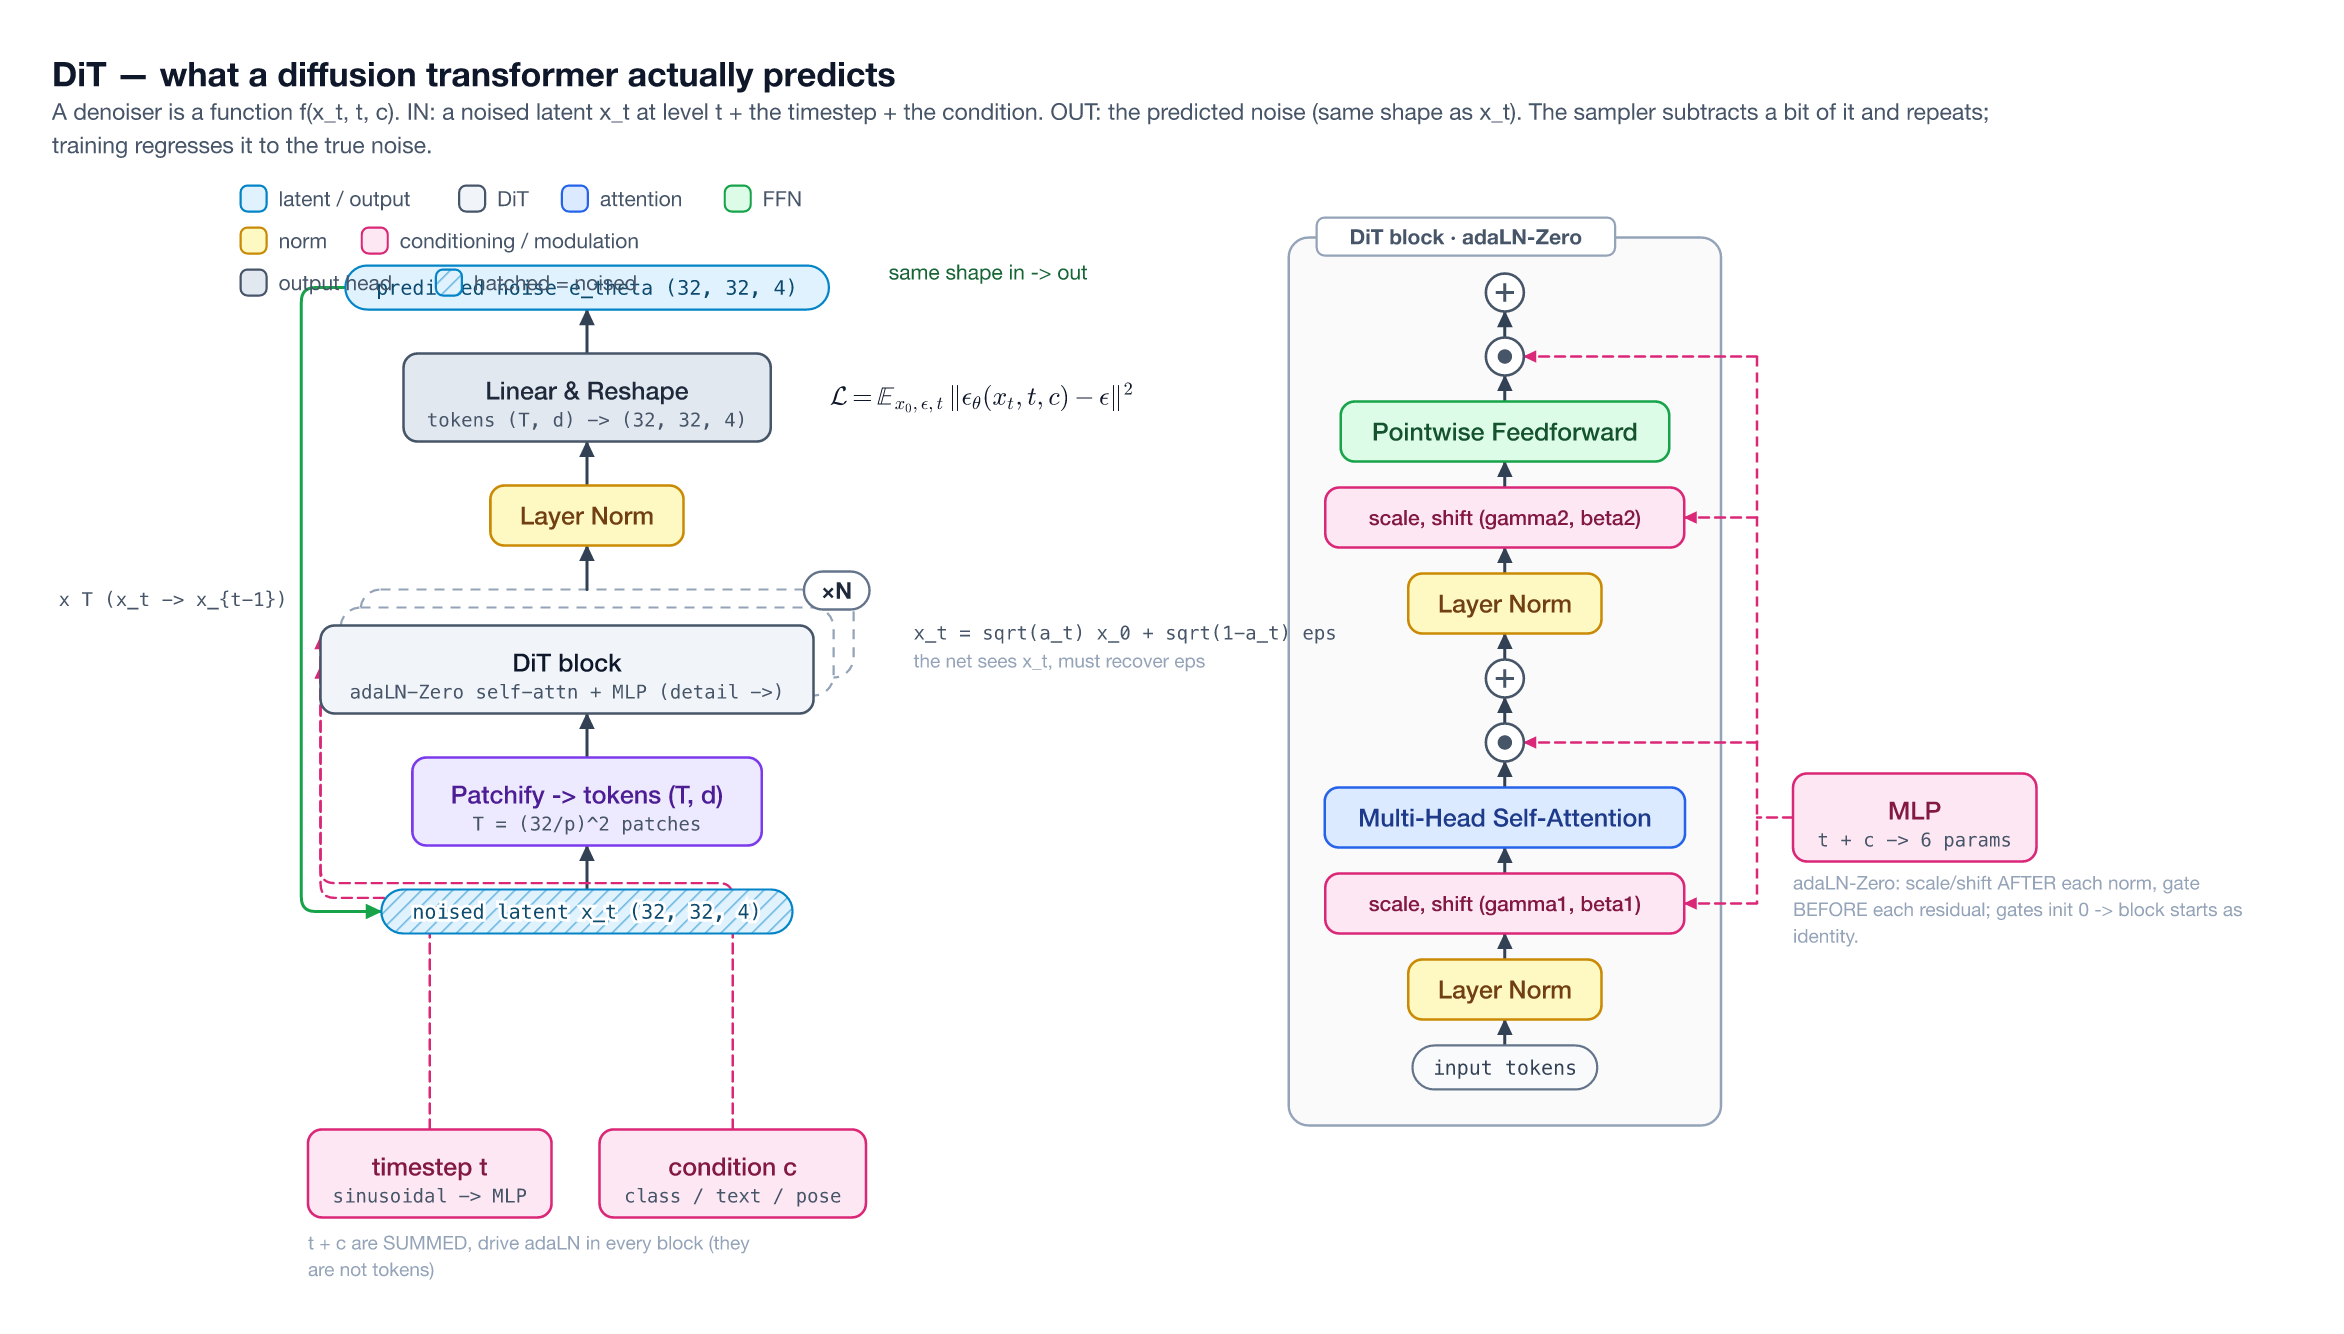
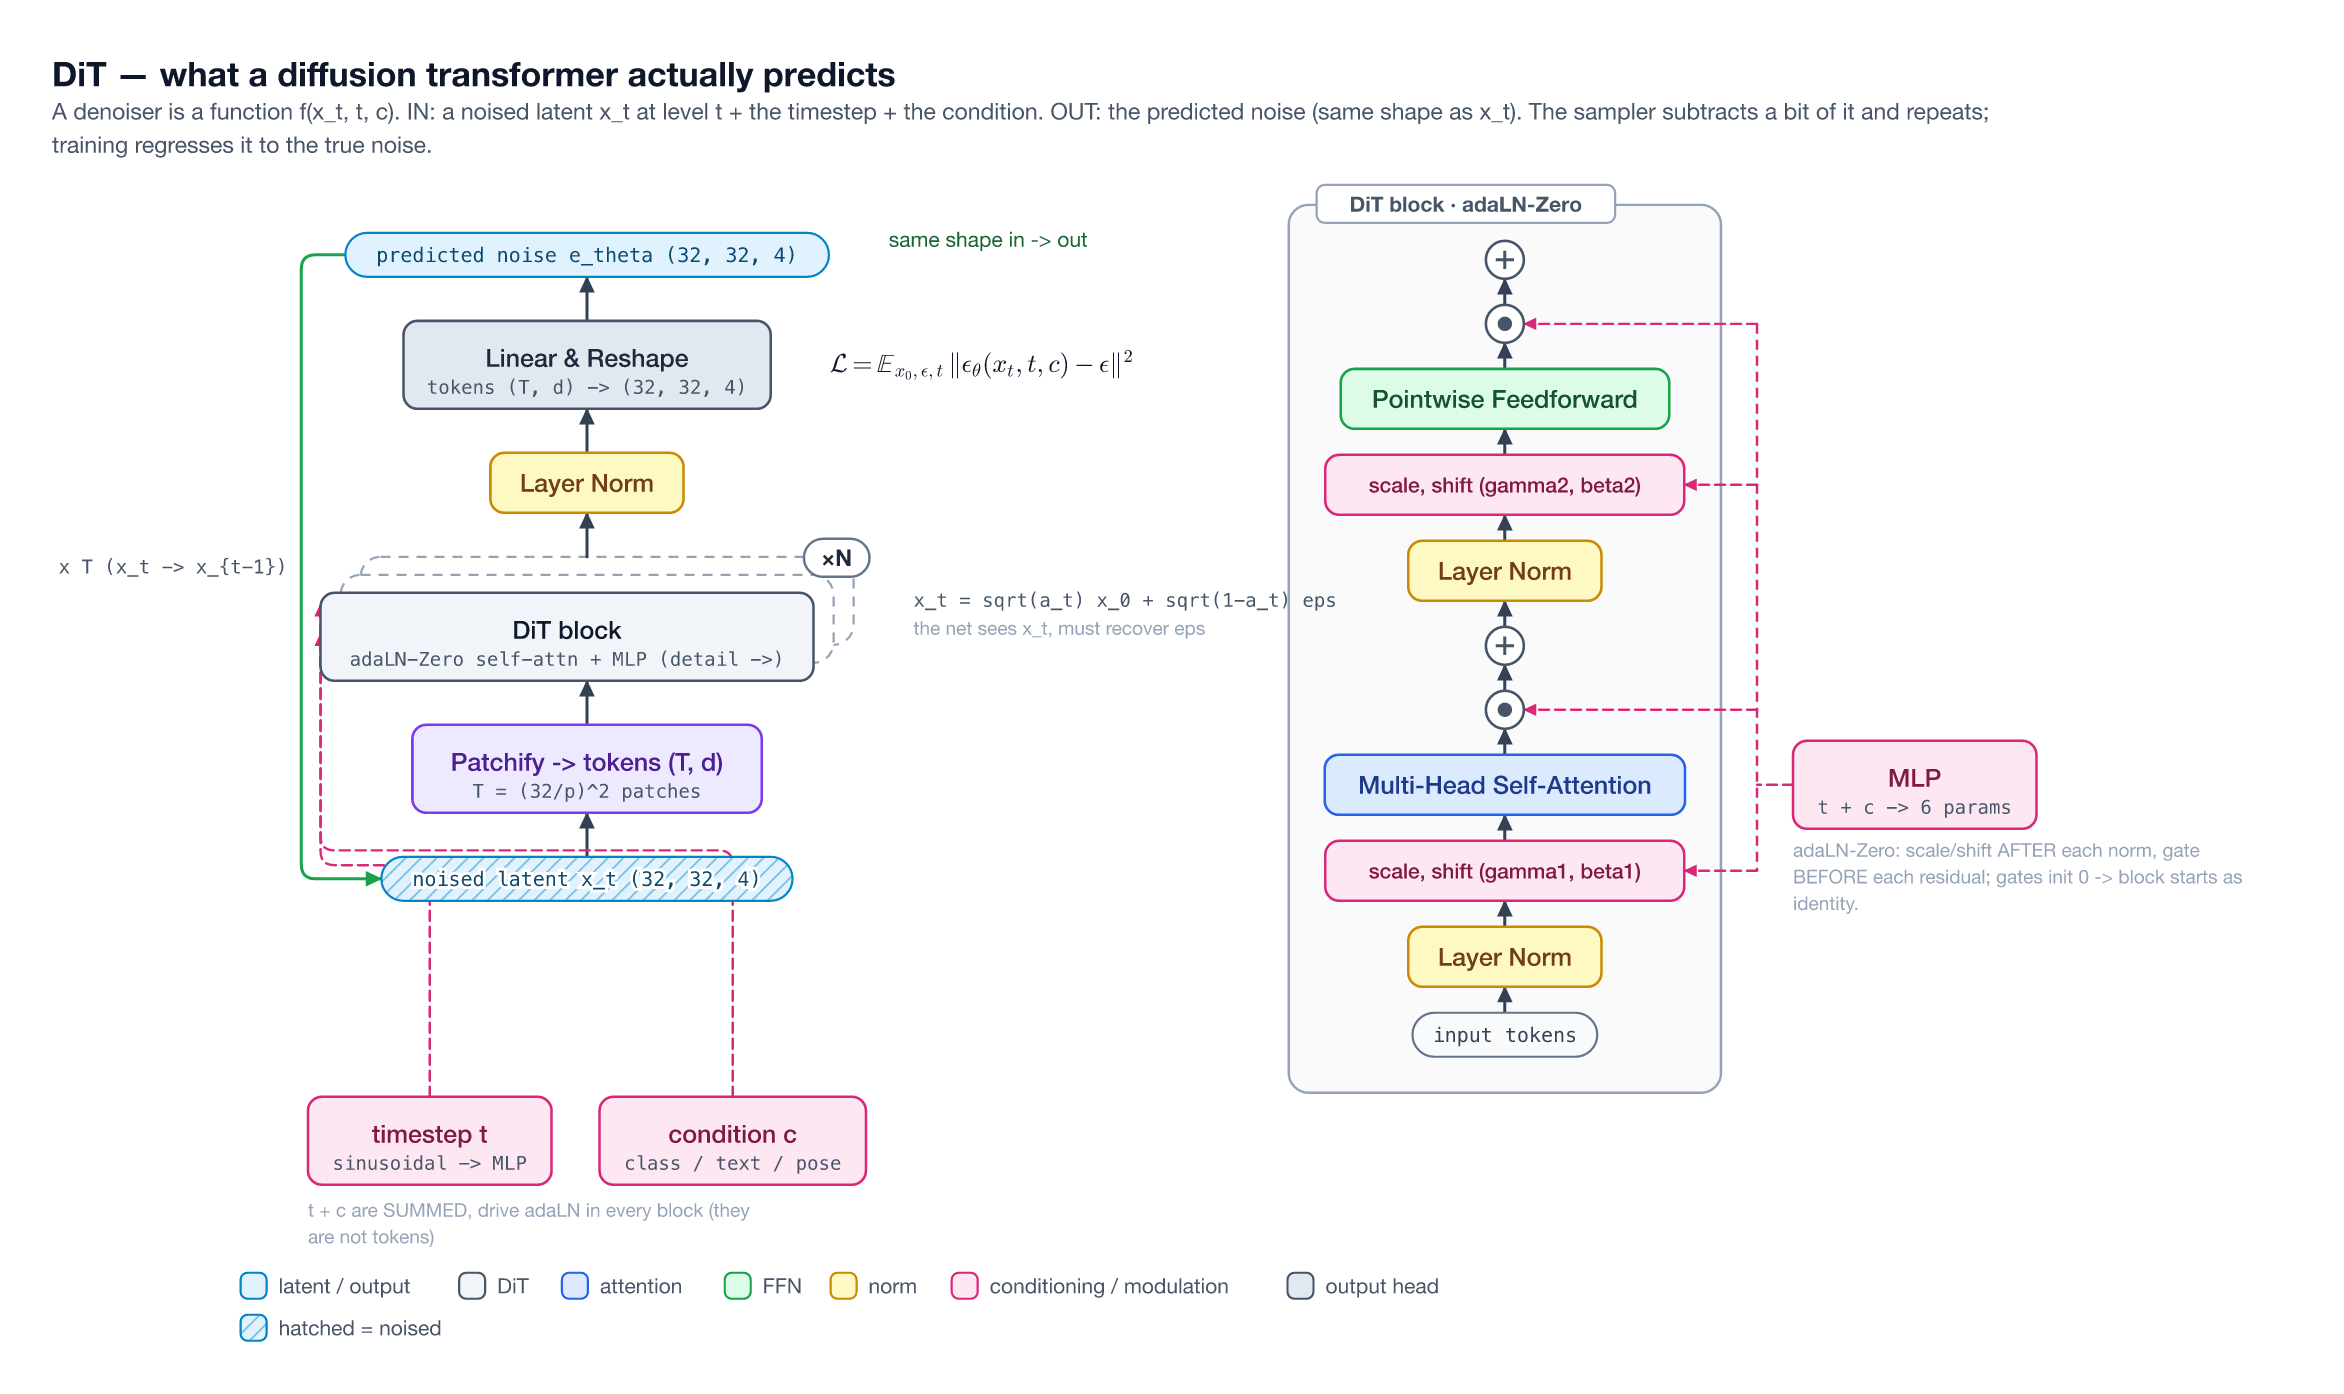
legibility pass (reviewer playbook): fix dit legend collision; rebuild fig10
A harsh conference-reviewer audit found the LingBot figures hide the 'whole',
delegate the centerpiece ('-> fig3'), float conditioning, and collide labels.
First fixes:
- dit_latent_diffusion: move the legend out of the canvas (it smeared over the
  output pill) — the one disqualifying render bug.
- fig10 rebuilt to the playbook: input->output spine with bookend pills; the AR
  sequence drawn with CONCRETE tokens (video frames as thumbnails, actions as
  value chips, per the paper's Fig 2); the diffusion zoom nested under z2 (no
  whitespace canyon); the DiT block inlined as a 3-row stub (not a pointer);
  conditioning gathered into one bus with named ports (-> AdaLN / -> K/V); the
  x30-layers and xT-denoise loops drawn distinctly. ~1.9:1 canvas.

diff --git a/examples/lingbot_va/fig10_ar_diffusion.py b/examples/lingbot_va/fig10_ar_diffusion.py
@@ -1,114 +1,137 @@
-"""Fig 10 — how LingBot-VA's architecture is AR x diffusion. fig9 only compared which
-weights are shared; this figure shows the generative mechanism the model actually is:
-an AUTOREGRESSIVE interleaved video-action sequence (causal, KV-cache, chunk by chunk),
-where each chunk is produced by FLOW-MATCHING DIFFUSION through the DiT (the timestep
-drives per-token AdaLN). The blocks in fig9 are DiT blocks; here is what they do."""
-from archscope import (Block, Diagram, IOLabel, RepeatStack, Swatches,
-                       TextLabel, TokenRow, VStack, style)
+"""Fig 10 — LingBot-VA is AR x diffusion. Rebuilt for legibility (reviewer playbook):
+one input pill -> one output pill spine, the AR sequence drawn with CONCRETE tokens
+(video frames as image thumbnails, actions as value chips, like the paper's Fig 2),
+the diffusion zoom nested directly under the generating chunk (no whitespace gap), the
+DiT block inlined as a 3-row stub (not a pointer), conditioning gathered into one bus
+with named ports, and the two loops (x30 layers vs xT denoise) drawn differently.
+
+Video-frame thumbnails use a CC0 image as an illustrative stand-in (assets/flower)."""
+from pathlib import Path
+
+from archscope import (Block, Diagram, GroupFrame, IOLabel, OpDot, RasterImage,
+                       Swatches, TextLabel, VStack, style)
 from common import OUT
 
+A = Path(__file__).resolve().parents[1] / "assets" / "flower"
+def vid(noised=0):
+    return str(A / "diff" / f"x_{noised}.png") if noised else str(A / "full.png")
+
 d = Diagram(
-    title="Fig 10 · The architecture is AR x diffusion — interleaved causal chunks, each denoised by the DiT",
-    subtitle="Two axes. SEQUENCE axis (autoregressive): video and action tokens are interleaved into one causal "
-             "sequence and generated chunk by chunk; the KV-cache holds the clean past (causal mask -> fig5). "
-             "WITHIN-CHUNK axis (diffusion): each chunk starts as noise and is denoised by the DiT via flow "
-             "matching; the diffusion timestep drives the per-token AdaLN that conditions every block (-> fig3).")
+    title="Fig 10 · LingBot-VA = AR x diffusion — generate one interleaved video+action sequence, each chunk denoised by the DiT",
+    subtitle="SEQUENCE axis (autoregressive): video frames (z) and action chunks (a) interleave into one causal "
+             "sequence, generated chunk by chunk; KV-cache holds the clean past. WITHIN-CHUNK axis (diffusion): "
+             "each chunk starts as noise and is denoised by the DiT (timestep s -> AdaLN). Video frames shown as "
+             "image thumbnails, actions as value chips (illustrative).")
 
-# ============ TOP: the AR axis — interleaved causal sequence ============
-SY = 110
-seq = TokenRow([
-    dict(label="z1", modality="video", w=40, sub="frame"),
-    dict(label="a1", modality="action", w=40, sub="actions", gap_after=14),
-    dict(label="z2", modality="video", w=40, hatch=True, bold_border=True, sub="GENERATING"),
-    dict(label="a2", modality="action", w=40, gap_after=14),
-    dict(label="z3", modality="video", w=40), dict(label="a3", modality="action", w=40),
-    dict(label="...", modality="none", w=34),
-], cell_w=40, cell_h=30, id="seq")
-seq.measure()
-d.place(seq, 150, SY)
-d.note(150, SY - 26, "autoregressive: one interleaved video+action sequence, generated chunk by chunk "
-       "(z = video frame, a = its tau=4 actions)", size=style.T_SUB + 0.5, color=style.INK,
-       weight="600")
-sb = d.box("seq")
-# causal generation arrow + history/future labels, below the row's sub-labels
-ay = sb.y2 + 22
-d.edge((sb.x, ay), (sb.x2 - 30, ay), color="#334155", width=1.4,
-       label="generate left -> right · chunk t+1 attends <= t", label_side="right")
-d.note(150, ay + 18, "<- clean history (KV-cache)", size=style.T_SUB, color="#0D9488")
-d.note(sb.x2, ay + 18, "future ->", size=style.T_SUB, color=style.FAINT, anchor="end")
+VS = 46  # video thumbnail size
 
-# ============ ZOOM: how the GENERATING chunk z2 is produced ============
-# z2 is the 3rd cell: after z1,a1 (2 cells + gap) + the 14px gap_after.
-z2x = sb.x + 2 * (40 + 3.5) + 14 + 20
-d.note(z2x, ay + 40, "zoom: how one chunk is generated", size=style.T_SUB, color=style.MUTED,
-       anchor="middle")
+# ============ LAYER 1: the AR sequence, concrete tokens, input->output spine ============
+SY = 120
+d.place(IOLabel("given: prompt + first obs o_0", id="g_in", modality="text"), 60, SY + VS/2 - 11)
 
-# ============ BODY: the diffusion axis — flow-matching denoise of one chunk ============
-DX = 420
+# interleaved chunks: z1 a1 | z2(gen) a2 | z3 a3
+def vtok(x, label, img=None, grey=False, noised=False):
+    if grey:
+        d.doc.rect("nodes", x, SY, VS, VS, "#F1F5F9", "#CBD5E1", 1.0, rx=5)
+    else:
+        RasterImage.emit(d.doc, img, x, SY, VS, VS, rx=5)
+        d.doc.rect("nodes", x, SY, VS, VS, "none", "#0284C7" if not noised else "#B91C1C",
+                   2.0 if noised else 1.2, rx=5)
+    d.doc.text("nodes", x + VS/2, SY + VS + 12, label, style.T_TINY + 1,
+               style.MUTED if not noised else "#B91C1C", "600" if noised else "500")
+def atok(x, vals, label):
+    w = 50
+    d.doc.rect("nodes", x, SY + 8, w, VS - 16, "#D1FAE5", "#059669", 1.1, rx=5)
+    d.doc.text("nodes", x + w/2, SY + VS/2 + 1, vals, style.T_TINY + 1, "#064E3B", "600")
+    d.doc.text("nodes", x + w/2, SY + VS + 12, label, style.T_TINY + 1, style.MUTED, "500")
+    return w
+
+x = 250
+vtok(x, "z1 frame", vid()); x += VS + 6
+aw = atok(x, "1.7 1.2", "a1"); x += aw + 20
+vtok(x, "z2  GENERATING", vid(noised=3), noised=True); z2cx = x + VS/2; x += VS + 6
+atok(x, "? ?", "a2"); x += 50 + 20
+vtok(x, "z3", grey=True); x += VS + 6
+atok(x, "...", "a3"); x += 50 + 16
+d.doc.text("nodes", x + 8, SY + VS/2 + 4, "...", style.T_LABEL, style.FAINT)
+
+d.place(IOLabel("out: video frames + action chunks", id="g_out", modality="video"), x + 40, SY + VS/2 - 11)
+d.note(250, SY - 26, "AUTOREGRESSIVE sequence — generate chunk by chunk:", size=style.T_SUB + 1,
+       color=style.INK, weight="600")
+# causal arrow under the row
+ay = SY + VS + 26
+d.edge((250, ay), (x - 10, ay), color="#334155", width=1.4,
+       label="chunk t+1 attends <= t · KV-cache holds the clean past (z1,a1)", label_side="right")
+d.edge("g_in.r", (244, SY + VS/2), b_side="l", style_name="faint")
+
+# ============ LAYER 2 + 3: zoom into z2 -> the diffusion denoise (no gap) ============
+DY = SY + VS + 70
+stub = GroupFrame(VStack([
+    Block("FFN", kind="ffn", id="s_ffn", min_w=230),
+    Block("cross-attention  <- text", kind="attention", id="s_x", min_w=230),
+    Block("self-attention  (causal mask, KV-cache)", kind="attention", id="s_self", min_w=230),
+], gap=9), title="DiT block  x30  (the same shared block)", title_pos="tag", dashed=False,
+    tint="rgba(71,85,105,0.04)", stroke="#475569", id="stub", pad=13)
+
 body = VStack([
-    IOLabel("clean chunk  z2  (the generated frame)", id="clean", modality="video"),
-    Block("velocity head  v_theta", kind="head",
-          sub="OUT: predicted velocity, same shape as z2 · v = (data - noise) direction", id="vel",
-          min_w=300),
-    RepeatStack(Block("DiT block", kind="model",
-                      sub="self-attn (causal mask, KV-cache) · cross-attn(text) · FFN",
-                      src="-> fig3 / fig9 (same shared block)", id="blk", min_w=300),
-                times="×30", id="dit"),
-    IOLabel("IN: noised chunk  z2^(s)  (pure noise at s=0)", id="noised",
-            modality="video", hatched=True),
-], gap=22)
-d.place(body, DX, SY + 128)
-d.chain(["noised", "dit", "vel", "clean"])
+    IOLabel("clean chunk  z2   (-> goes back into the sequence above)", id="clean", modality="video"),
+    Block("velocity head -> predicted v_theta   (OUT: same shape as z2)", kind="head", id="vel", min_w=300),
+    stub,
+    IOLabel("IN: noised chunk  z2^(s)   (pure noise at s=0)", id="noised", modality="video", hatched=True),
+], gap=18)
+d.place(body, z2cx - 150, DY + 26)
+d.chain(["noised", "stub", "vel", "clean"])
+d.note(z2cx - 150, DY + 8, "DIFFUSION within the chunk — flow-matching denoise:", size=style.T_SUB + 1,
+       color=style.INK, weight="600")
 
-# zoom lines from the z2 cell down to the diffusion stack top
+# magnifier: connect z2 cell to the diffusion IN, no whitespace canyon
 nb = d.box("noised")
-d.edge((z2x, sb.y2 + 28), (nb.cx, nb.y), style_name="faint", dash="4 3", a_side="b", b_side="t")
+d.edge((z2cx, SY + VS), (nb.cx, nb.y), style_name="faint", dash="3 3", a_side="b", b_side="t",
+       color="#B91C1C", label="zoom: how z2 is made")
 
-# the denoising loop (flow matching, s: 0 -> 1) — on the LEFT
+# the xT denoise loop (distinct: green, curved back-edge on the left)
 vb = d.box("vel")
-xr = nb.x - 38
+xr = nb.x - 36
 d.edge((vb.x, vb.cy), (nb.cx, nb.y), a_side="l", b_side="t",
-       via=[(xr, vb.cy), (xr, nb.y - 16)], color="#16A34A", width=1.5,
-       label="x T:  integrate s 0 -> 1  (flow matching)", label_side="left")
+       via=[(xr, vb.cy), (xr, nb.y - 14)], color="#16A34A", width=1.6,
+       label="x T: integrate s 0 -> 1", label_side="left")
 
-# the diffusion conditioning: timestep s -> AdaLN (the thing that makes it a DiT) — RIGHT, mid
-ditb = d.box("dit")
-ada = Block("diffusion timestep  s  ->  AdaLN", kind="cond",
-            sub="temb + scale_shift_table -> 6 params (shift,scale,gate)x2 · model.py:524 · "
-                "conditions EVERY block", id="ada", min_w=240)
-ada.measure()
-d.place(ada, ditb.x2 + 56, ditb.cy - ada.h / 2 - 18)
-d.edge("ada.l", "dit.r@0.42", style_name="cond")
-txt = Block("umT5 text", kind="cond", sub="prompt -> cross-attn K/V", id="txt", modality="text")
-txt.measure()
-d.place(txt, ditb.x2 + 56, ditb.cy + 24)
-d.edge("txt.l", "dit.r@0.72", style_name="cond", color="#DB2777")
+# conditioning BUS with named ports (right of the stub)
+sb = d.box("stub")
+bus_x = sb.x2 + 80
+cond = VStack([
+    Block("diffusion timestep s", kind="cond", sub="model.py:524", id="c_s", min_w=150),
+    Block("umT5 text", kind="cond", sub="prompt", id="c_t", modality="text", min_w=150),
+], gap=14)
+d.place(cond, bus_x, sb.cy - 30)
+rail = sb.x2 + 36
+d.edge("c_s.l", (rail, d.box("c_s").cy), a_side="l", arrow=False, style_name="cond")
+d.edge("c_t.l", (rail, d.box("c_t").cy), a_side="l", arrow=False, style_name="cond", color="#DB2777")
+d.doc.line("edges", rail, d.box("c_s").cy, rail, d.box("c_t").cy, "#94A3B8", 1.2, dash="5 3")
+d.edge((rail, d.box("s_self").cy - 6), "s_self.r@0.4", style_name="cond",
+       label="-> AdaLN", label_side="right")
+d.edge((rail, d.box("s_x").cy), "s_x.r@0.5", style_name="cond", color="#DB2777",
+       label="-> K/V", label_side="right")
 
-# the action chunk: a compact note at the TOP-RIGHT (clean's row), well above the AdaLN rail
+# ============ LAYER 4: the action chunk (compact, conditioned on z2) ============
 cb = d.box("clean")
-a_note = Block("then: action chunk a2", kind="io", modality="action",
-               sub="same DiT denoises the actions, conditioned on the predicted z2\n"
-                   "(inverse dynamics) · s: 0 -> 1", id="a_note", min_w=250)
+a_note = Block("then a2: the SAME DiT denoises the action chunk", kind="io", modality="action",
+               sub="conditioned on the just-made z2 (inverse dynamics) · s: 0 -> 1", id="a2", min_w=270)
 a_note.measure()
-d.place(a_note, cb.x2 + 70, cb.cy - a_note.h / 2)
-d.edge("clean.r@0.5", "a_note.l@0.5", style_name="cache", color="#0D9488", label="z2")
+d.place(a_note, cb.x2 + 60, cb.cy - a_note.h / 2)
+d.edge("clean.r@0.5", "a2.l@0.5", style_name="cache", color="#0D9488", label="z2 conditions a2")
 
-# ============ BOTTOM: the two-axis summary ============
-by = max(d.box("noised").y2, d.box("txt").y2) + 46
-d.note(150, by,
-       "So: AR is the SEQUENCE axis (interleave video+action, causal, KV-cache, chunk by chunk); "
-       "diffusion is the WITHIN-CHUNK axis (flow-matching denoise through the DiT, timestep -> AdaLN).",
-       size=style.T_SUB + 1, color=style.INK, max_w=1000)
-d.note(150, by + 16,
-       "The shared DiT backbone of fig9 is exactly this DiT — one network both predicts video (forward "
-       "dynamics) and decodes actions (inverse dynamics), at every autoregressive step.",
+# ============ bottom one-liner ============
+by = max(d.box("noised").y2, d.box("c_t").y2) + 34
+d.note(60, by, "Read it as: AR is the SEQUENCE axis (interleave z & a, causal, KV-cache, chunk by chunk); "
+       "DIFFUSION is the WITHIN-CHUNK axis (denoise each chunk through the DiT, s -> AdaLN). One DiT does both.",
        size=style.T_SUB + 1, color=style.MUTED, max_w=1000)
 
-leg = Swatches([("video", "video chunk / latent"), ("action", "action chunk"),
+leg = Swatches([(("#E0F2FE", "#0284C7"), "video frame token z"), ("action", "action chunk a"),
                 ("model", "DiT (denoiser)"), ("head", "velocity head"),
                 ("cond", "diffusion timestep / text"),
-                (("#E0F2FE", "#0284C7"), "hatched = noised", "hatch")], max_w=720, id="leg")
-d.place(leg, 150, SY - 60)
+                (("#E0F2FE", "#B91C1C"), "noised (being denoised)", "hatch")], max_w=820, id="leg")
+d.place(leg, 60, 70)
 
 d.save(OUT / "fig10_ar_diffusion.svg")
 print("ok")

diff --git a/examples/dit_latent_diffusion.py b/examples/dit_latent_diffusion.py
@@ -111,8 +111,8 @@ d.note(d.box("b_mlp").x, d.box("b_mlp").y2 + 14,
 leg = Swatches([("video", "latent / output"), ("model", "DiT"), ("attention", "attention"),
                 ("ffn", "FFN"), ("norm", "norm"), ("cond", "conditioning / modulation"),
                 ("head", "output head"),
-                (("#E0F2FE", "#0284C7"), "hatched = noised", "hatch")], max_w=300, id="leg")
-d.place(leg, X - 40, 70)
+                (("#E0F2FE", "#0284C7"), "hatched = noised", "hatch")], max_w=620, id="leg")
+d.place(leg, X - 40, max(d.box("t").y2, d.box("c").y2) + 44)
 
 d.save(OUT / "dit_latent_diffusion.svg")
 print("wrote", OUT / "dit_latent_diffusion.svg")